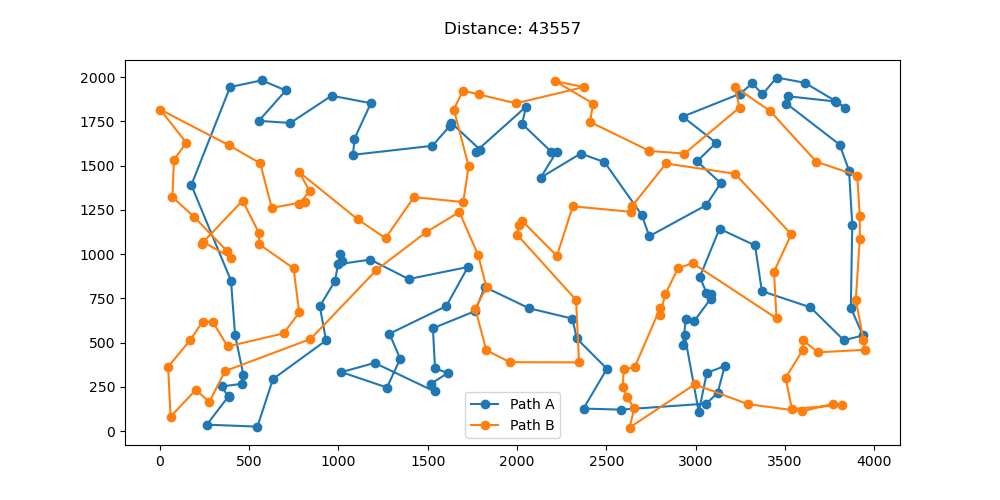
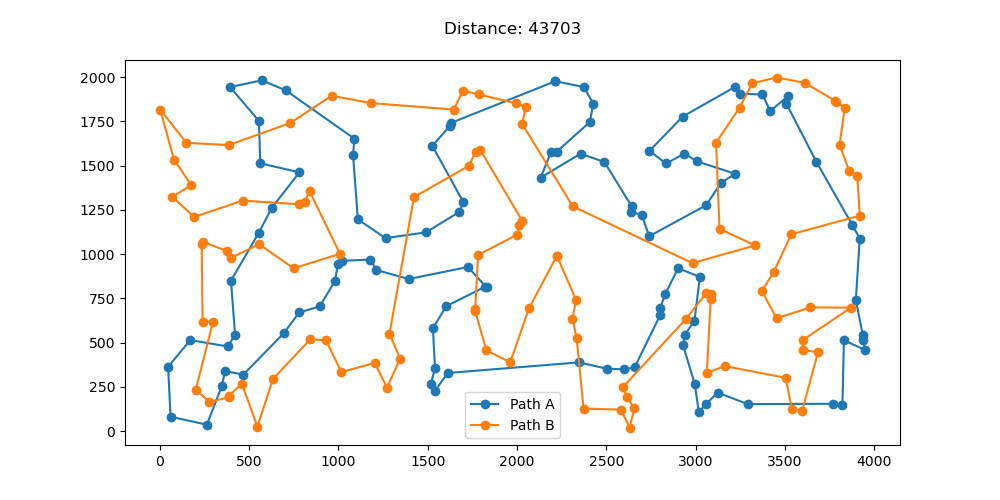
Update cache local search results in sprawko.md

diff --git a/Lab3/src/cache_moves.cpp b/Lab3/src/cache_moves.cpp
@@ -148,7 +148,7 @@ std::vector<Move> generateNewMoves(const TSPData& data, const TSPSolution& solut
       // std::cout<<"------------"<<std::endl;
       // std::cout<< move.i<<" "<<move.j<<" "<<move.k<<" "<<move.l<<std::endl;
       // std::cout<< i<<" "<<j<<" "<<k<<" "<<l<<std::endl;
-      for(int d = 1; d < path.size() - 2; d++) {
+      for(int d = 1; d < path.size() - 1; d++) {
         int firstIndex = (i + d) % path.size();
         int secondIndex = (i + d + 1) % path.size();
         int thirdIndex = (j + d) % path.size();
@@ -313,7 +313,7 @@ std::vector<Move> generateNewMoves(const TSPData& data, const TSPSolution& solut
         }
       }
 
-      for(int d = 1; d < solution.pathA.size() - 2; d++) {
+      for(int d = 1; d < solution.pathA.size() - 1; d++) {
         int firstIndex = (indexA + d) % solution.pathA.size();
         int secondIndex = (indexA + d + 1) % solution.pathA.size();
         int thirdIndex = (indexB + d) % solution.pathA.size();

diff --git a/Lab3/sprawozdanie/sprawko.md b/Lab3/sprawozdanie/sprawko.md
@@ -91,7 +91,7 @@ Powtarzaj dopóki delta najlepszego ruchu mniejsza od 0:
 | ----------------------- | ------------------------ | ----------------------- |
 | Cycle Augmentation      | 39502.51 (36621 - 42312) | 1252.79 (1228 - 1396)   |
 | Local Search - Steepest | 42095.21 (38155 - 46176) | 10706.41 (9198 - 12083) |
-| Cache Local Search      | 48534.32 (43341 - 54916) | 531.44 (471 - 602)      |
+| Cache Local Search      | 47753.79 (43315 - 51811) | 531.44 (471 - 602)      |
 | Candidate Moves (k=20)  | 43488.3 (39551 - 49012)  | 7231.28 (6362 - 8039)   |
 
 ### Cycle Augmentation
@@ -112,12 +112,12 @@ Powtarzaj dopóki delta najlepszego ruchu mniejsza od 0:
 
 ### KroB
 
-| Konfiguracja            | Wartość funkcji celu     | Czas (ms)              |
-| ----------------------- | ------------------------ | ---------------------- |
-| Cycle Augmentation      | 38928.69 (34997 - 43293) | 1293.11 (1229 - 1502)  |
-| Local Search - Steepest | 41760.15 (38626 - 46975) | 9992.07 (9198 - 11196) |
-| Cache Local Search      | 47239.43 (43557 - 54389) | 534.97 (484 - 613)     |
-| Candidate Moves (k=20)  | 43851.04 (39220 - 50323) | 7299.45 (6362 - 8039)  |
+| Konfiguracja            | Wartość funkcji celu       | Czas (ms)              |
+| ----------------------- | -------------------------- | ---------------------- |
+| Cycle Augmentation      | 38928.69 (34997 - 43293)   | 1293.11 (1229 - 1502)  |
+| Local Search - Steepest | 41760.15 (38626 - 46975)   | 9992.07 (9198 - 11196) |
+| Cache Local Search      | 47875.4349 (43703 - 53961) | 534.97 (484 - 613)     |
+| Candidate Moves (k=20)  | 43851.04 (39220 - 50323)   | 7299.45 (6362 - 8039)  |
 
 ### Cycle Augmentation
 
@@ -137,7 +137,7 @@ Powtarzaj dopóki delta najlepszego ruchu mniejsza od 0:
 
 ## Wnioski
 
-Zarówno algorytm lokalnego przeszukiwania oparty o ruchy kandydackie jak i o wykorzystywanie ruchów z poprzednich iteracji, przyniosły poprawę czasową wykonania przeszukiwania w porównaniu do tradycyjnej wersji stromej. Przy czym najszybszy okazał się algorytm oparty o ruchy kandydackie. Jeżeli chodzi o funkcję celu to algorytm ruchów kandydackich jest gorszy od tradycyjnego przeszukiwania stromego, ale lepszy od algorytmu z listą ruchów, który wypadł najgorzej w tym zestawieniu. Wszystkie 3 algorytmy dają gorsze wyniki zarówno czasowe jak i pod względem funkcji celu, od algorytmu konstrukcyjnego, ale może być to spowodowane rozpoczynaniem od rozwiązań losowych, a lokalne przeszukiwanie nie jest w stanie oddzielić cykli przestrzenie od siebie, co dobrze widać na wizualizacjach.
+Zarówno algorytm lokalnego przeszukiwania oparty o ruchy kandydackie jak i o wykorzystywanie ruchów z poprzednich iteracji, przyniosły poprawę czasową wykonania przeszukiwania w porównaniu do tradycyjnej wersji stromej. Przy czym najszybszy okazał się algorytm oparty na zapamiętywaniu ruchów. Jeżeli chodzi o funkcję celu to algorytm ruchów kandydackich jest gorszy od tradycyjnego przeszukiwania stromego, ale lepszy od algorytmu z listą ruchów, który wypadł najgorzej w tym zestawieniu. Wszystkie 3 algorytmy dają gorsze wyniki zarówno czasowe jak i pod względem funkcji celu, od algorytmu konstrukcyjnego, ale może być to spowodowane rozpoczynaniem od rozwiązań losowych, a lokalne przeszukiwanie nie jest w stanie oddzielić cykli przestrzenie od siebie, co dobrze widać na wizualizacjach.
 
 ## Kod programu
 
